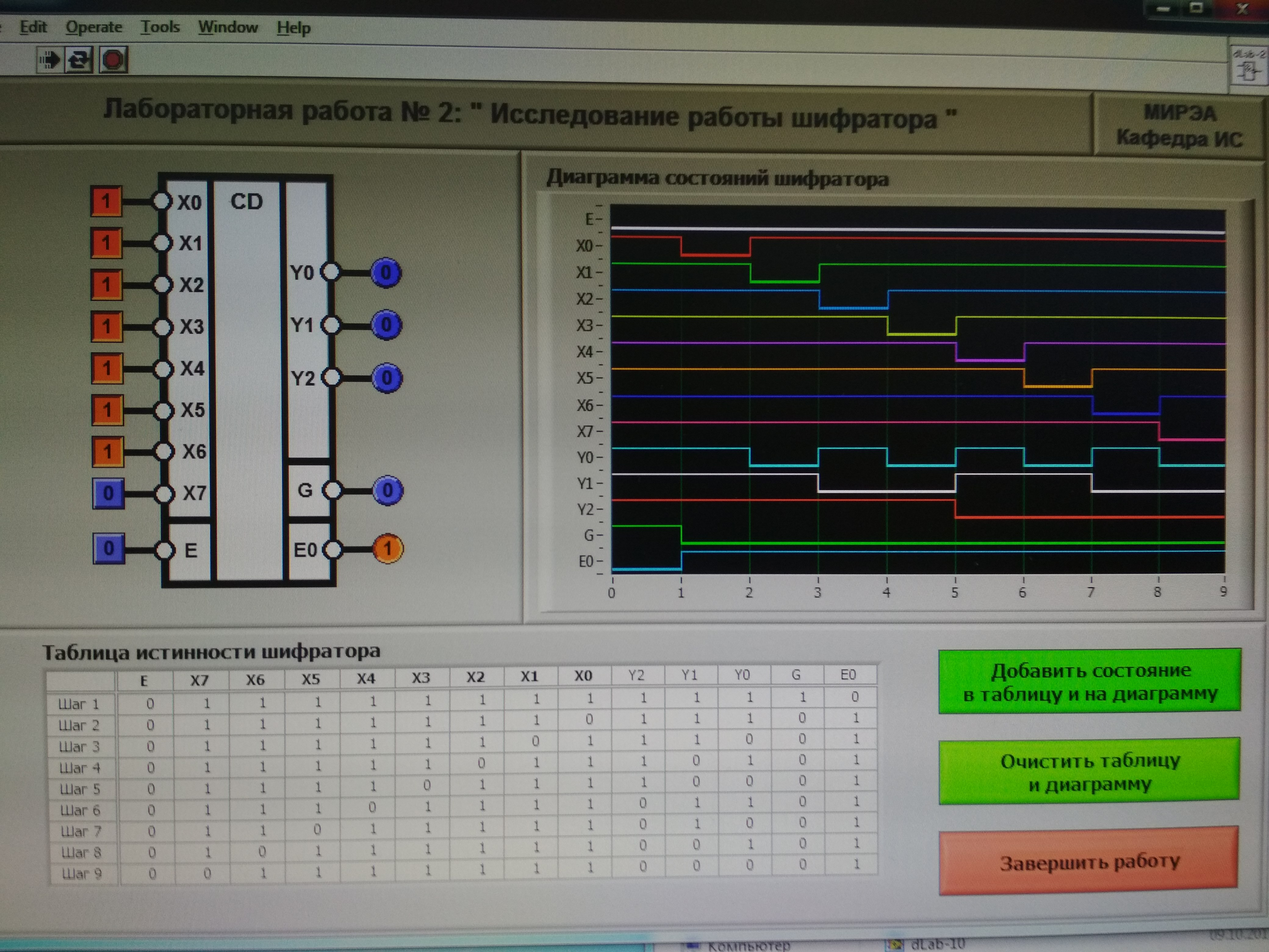
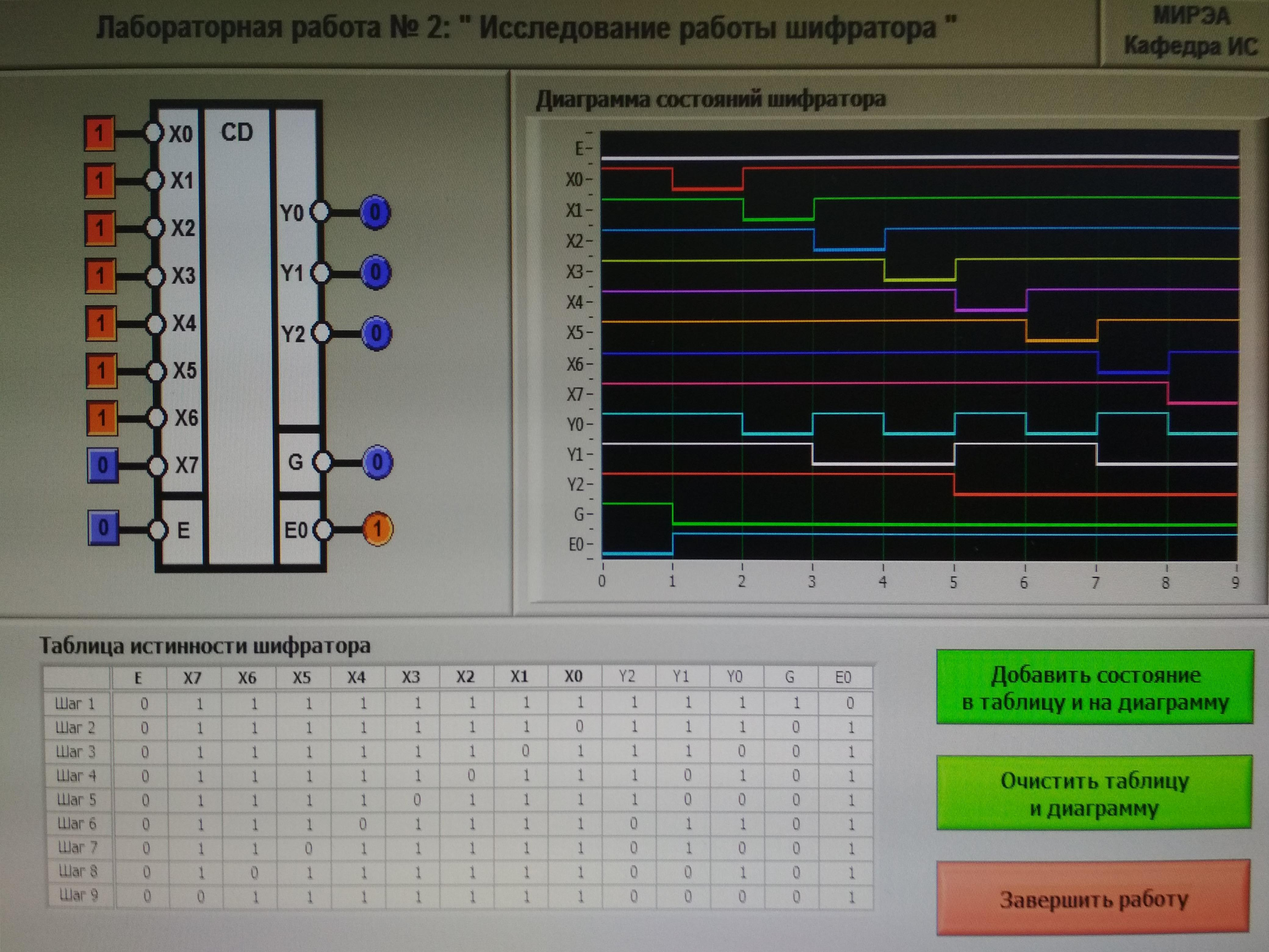
Add lab 2

diff --git a/Lab_201/lab_02.tex b/Lab_201/lab_02.tex
@@ -1,0 +1,29 @@
+\section{ИССЛЕДОВАНИЕ РАБОТЫ ШИФРАТОРА}
+
+\begin{figure}[H]
+	\centering
+	\includegraphics[width=0.95\linewidth]{imgs/2/1}
+	\caption{Результат работы включенного шифратора}
+	\label{fig:2_on}
+\end{figure}
+
+\begin{figure}[H]
+	\centering
+	\includegraphics[width=0.95\linewidth]{imgs/2/2}
+	\caption{Результат работы выключенного шифратора}
+	\label{fig:2_off}
+\end{figure}
+
+В ходе работы было выяснено, что для работы шифратора необходимо подать низкий уровень на вход E.
+Активный сигнал на выходе G наблюдается при подаче хотя бы одного сигнала.
+Выход E0 становится неактивным, если есть хотя бы 1 сигнал.
+% Шифратор является приоритетным, вход X6 имеет больший приоритет, чем X3
+
+Элемент SN74LS148N
+
+Характеристики:
+\begin{itemize}
+	\item Encode 8 Data Lines to 3-Line Binary (Octal)
+	\item Typical data delay 15 ns
+	\item Typical power dissapation 60mW
+\end{itemize}

diff --git a/Lab_201/main.tex b/Lab_201/main.tex
@@ -18,6 +18,7 @@
 
 \input{lab_01.tex}
 
+\input{lab_02.tex}
 
 \end{document} % конец документа
 
